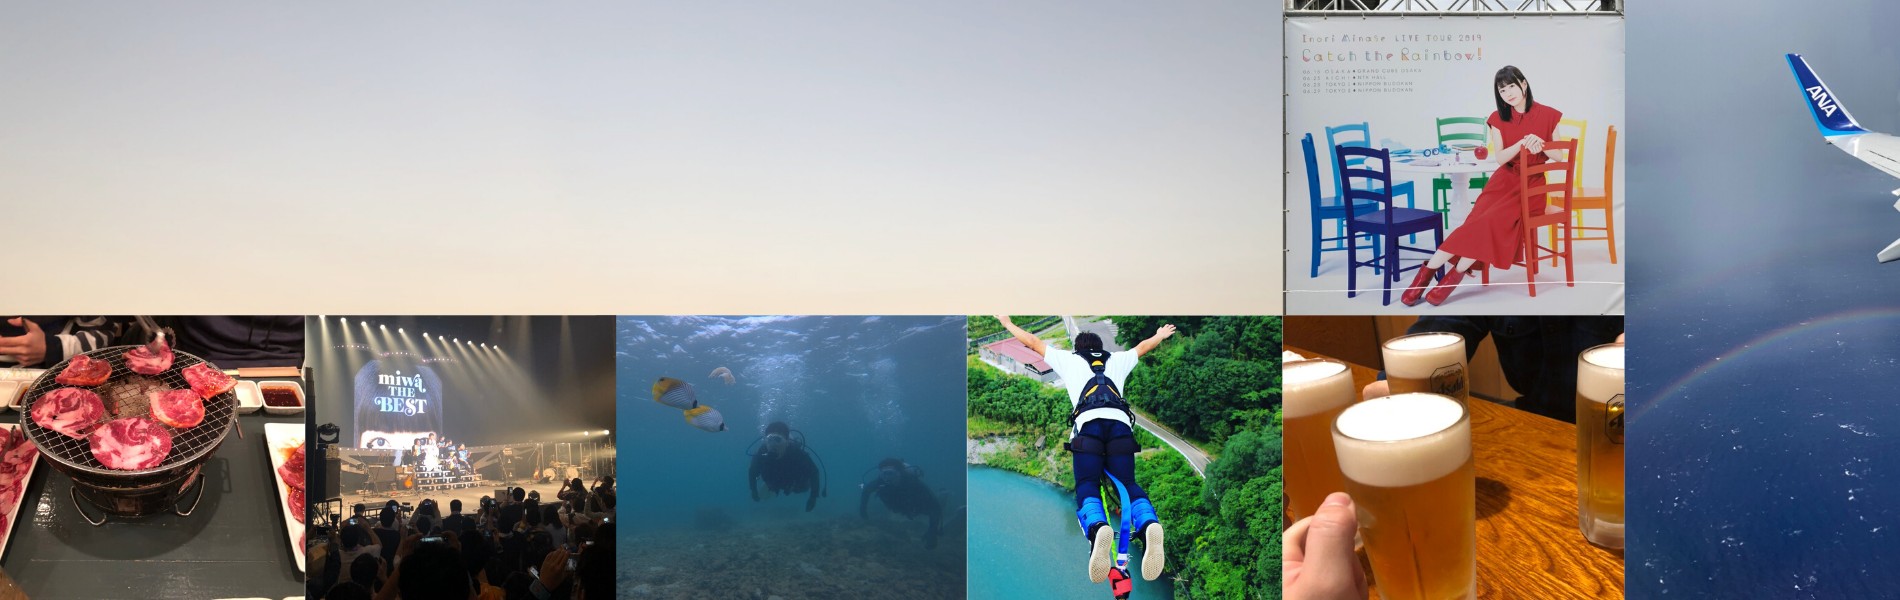
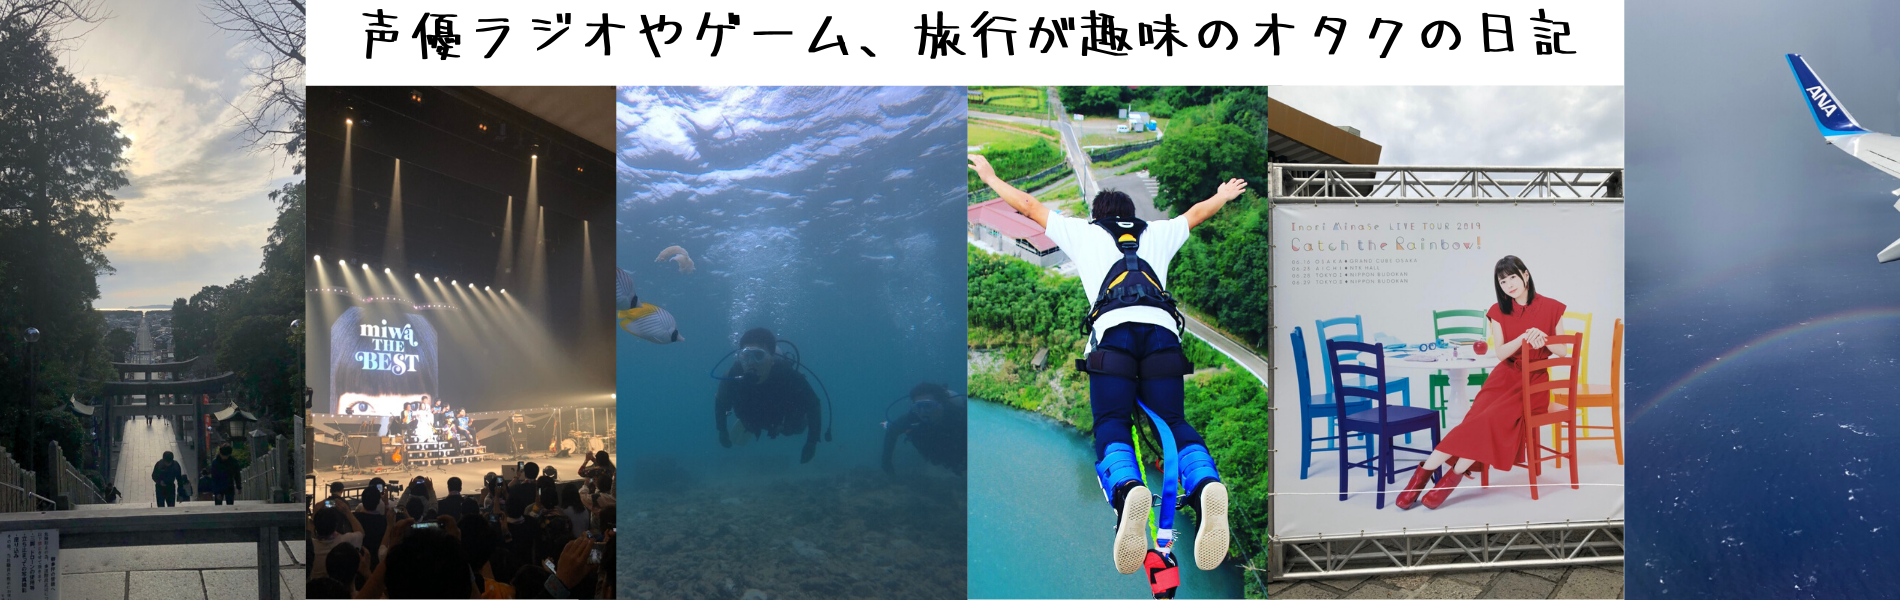
広告でレイアウトが崩れたのでheaderを大きく変更

diff --git a/style.css b/style.css
@@ -129,47 +129,26 @@ footer{
 .the-top{
   background-color: white;
   weight: 100%;
-  height: 8px;
 }
-.the-top p{
+.the-top h1, .the-top p{
+  font-weight: normal;
   margin: 0;
-}
-
-
- .header-h1-img{
-   position: relative;
- }
-.header-h1-img a{
-  position: absolute;
-  top: 4%;
-  left: 5%;
-}
-.header-h1-img a:hover{
-  color: #337ab7;
-}
-
-.header-title{
-  font-weight: bold;
-  font-size: 6.5vw;
-  font-family: 'M PLUS Rounded 1c', sans-serif;
-}
-.header-content{
-  font-weight: bold;
-  font-size: 1.5vw;
   text-align: center;
-  margin: 0;
+  font-size: 4em;
 }
 
+.the-top a:hover{
+  color: rgba(23, 96, 160);
+}
+.header2-top{
+  padding: 12px 0 24px 0;
+}
  .top-img{
    width: auto;
    border-bottom: 16px solid white;
  }
 
 
-.header-2-title{
-  background-color: white;
-      margin-top: 24px;
-}
 .top-nav{
   width: 75%;
   display: flex;
@@ -217,16 +196,11 @@ footer{
  }
 
  @media screen and (max-width: 501px){
-
-   .top-img{
-     border-bottom: 12px solid white;
+   .header2-top{
+     padding: 12px 0 16px 0;
    }
-   .header-h1-img a{
-     top: 3%;
-     left: 5%;
-   }
-   .header-title{
-     font-size: 6vw;
+   .the-top h1, .the-top p{
+     font-size: 3em;
    }
    .top-nav{
      width: 98%;
@@ -240,7 +214,7 @@ footer{
 
 
 @media screen and (max-width: 360px){
-  .header-h1-img a{
+  .header-img a{
     top: 0;
     left: 0;
   }

diff --git a/header.php b/header.php
@@ -17,11 +17,11 @@
 
     <!-- ▼ ヘッダー開始 ▼ -->
     <header class="top-header">
-      <!-- 広告でレイアウトが崩れるのを防ぐための空白 -->
-      <div class="the-top"><p>　</p></div>
+      <div class="the-top">
+        <a href="https://dice-blog.com/"><h1>ダイス🎲ブログ</h1></a>
+      </div>
 
-      <div class="header-h1-img">
-        <a href="<?php echo esc_url( home_url('/')); ?>"><h1><span class="header-title">ダイス🎲ブログ</span></h1><p class="header-content">声優ラジオやゲーム、旅行が趣味のオタクの日記</p></a>
+      <div class="header-img">
         <img class="top-img" src="<?php echo esc_url(get_theme_file_uri('images/top-img.png')); ?>" alt="<?php bloginfo('name'); ?>">
       </div>
         <nav>

diff --git a/header-2.php b/header-2.php
@@ -16,12 +16,8 @@
 
     <!-- ▼ ヘッダー開始 ▼ -->
     <header class="top-header">
-      <!-- 広告でレイアウトが崩れるのを防ぐための空白 -->
-      <div class="the-top"><p>　</p></div>
-
-      <div class="header-h1-img">
-        <a href="<?php echo esc_url( home_url('/')); ?>"><p><span class="header-title">ダイス🎲ブログ</span></p><p class="header-content">声優ラジオやゲーム、旅行が趣味のオタクの日記</p></a>
-        <img class="top-img" src="<?php echo esc_url(get_theme_file_uri('images/top-img.png')); ?>" alt="<?php bloginfo('name'); ?>">
+      <div class="the-top header2-top">
+        <p><a href="https://dice-blog.com/">ダイス🎲ブログ</a></p>
       </div>
         <nav>
          <ul class="top-nav">
